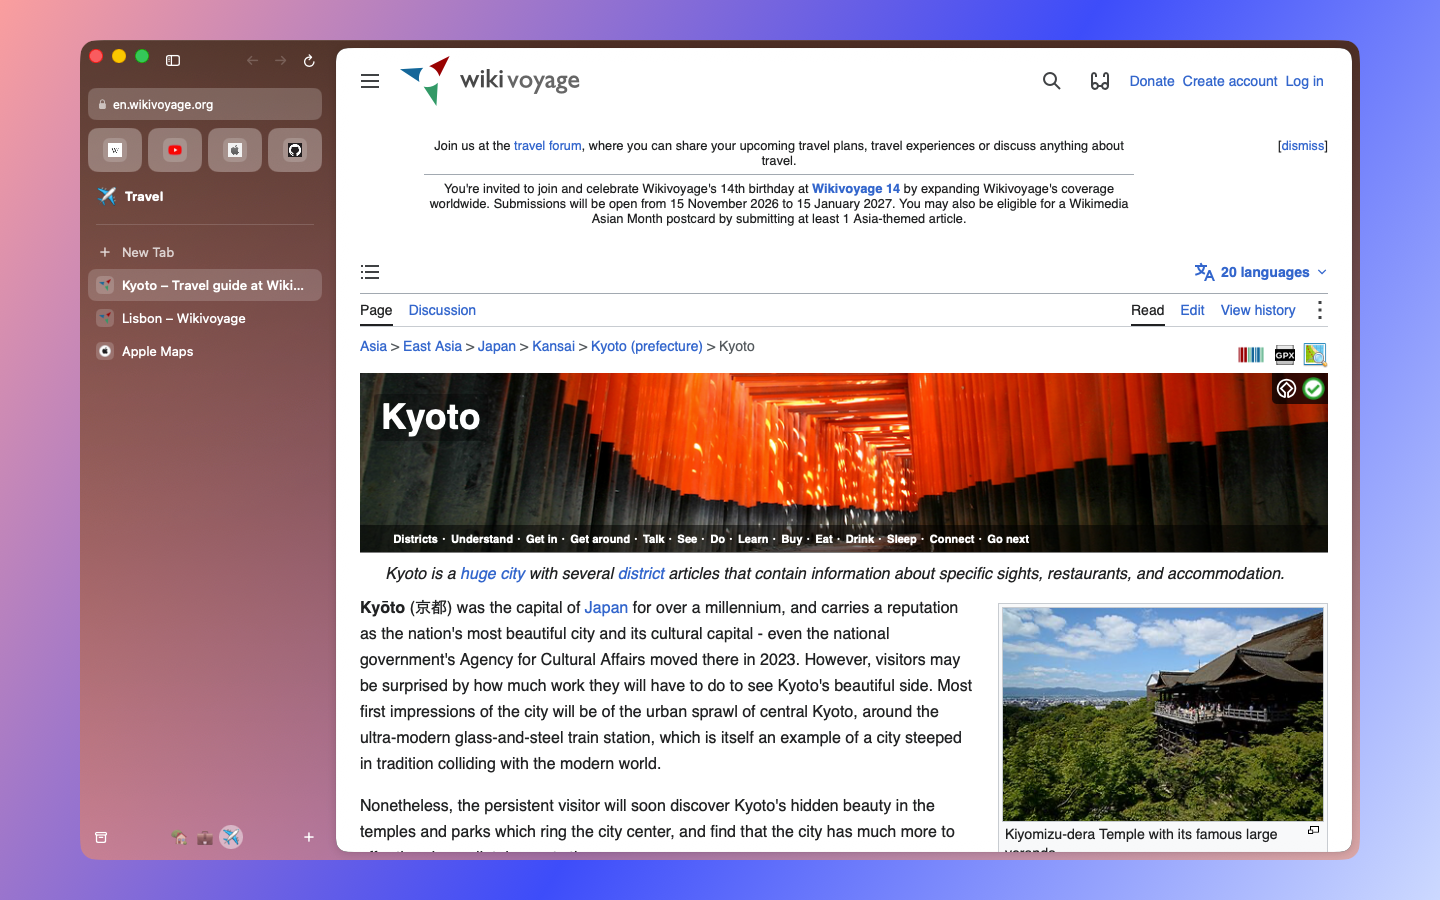
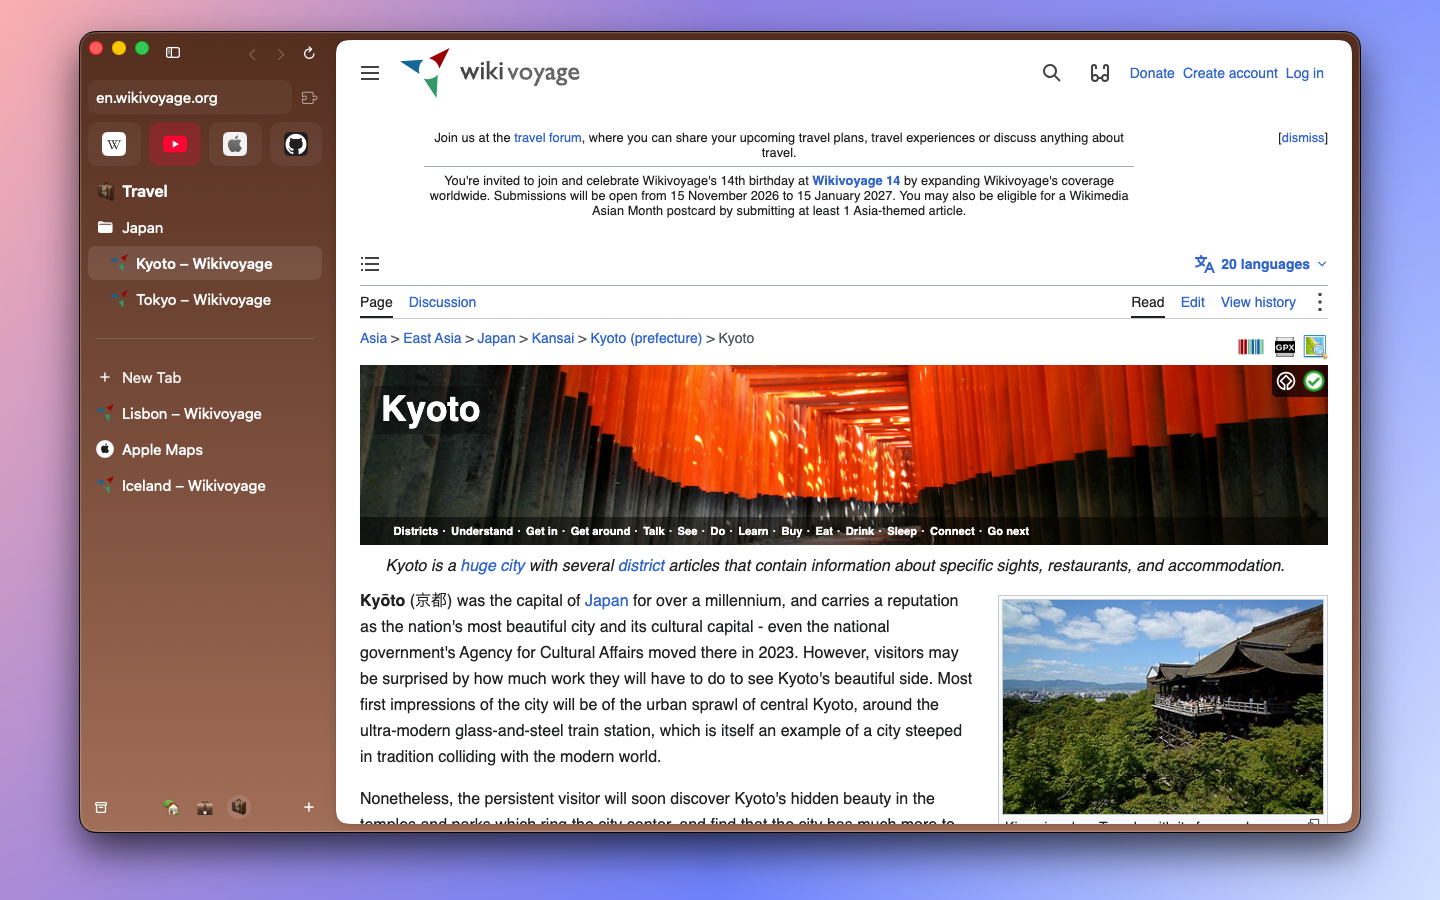
README: new Mac screenshots and hero from the Chromium DMG; extensions, right-click and Settings in the feature list

diff --git a/README.md b/README.md
@@ -38,8 +38,8 @@ within thumb reach and a layout that follows every posture of iPhone Duo. On the
 | **On-device AI** | Summarize Page, Ask This Page and Tidy Tabs, using only Apple's on-device model. Nothing goes to a server. |
 | **iCloud sync** | Spaces, pins, folders, favorites and Today sync between iPhone and Mac through your **private** CloudKit database (`CKSyncEngine`). When iCloud is unavailable, a folder you choose works as a fallback. History and Incognito tabs never leave the device. |
 | **Built for iPhone Duo** | Folded: the page with the rail beside it, its edges tinted to match the site. Open: a sidebar with search and Today next to the page. Book: sidebar on the left half, page on the right. Laptop: page on top, controls on the lower half. The page is never reloaded as the hinge moves. Standard iPhones get the page with the bar across the bottom. |
-| **Chromium on the Mac** | The DMG from GitHub is built on Chromium: Chrome Web Store extensions, and Chromium's DevTools docked beside the page. Upgrading from an earlier version keeps your library, settings, saved passwords and signed-in sites. The Mac App Store and iPhone apps use WebKit. |
-| **A full Mac browser** | Sidebar with spaces, command bar (⌘T / ⌘L), split view, rebindable shortcuts, downloads, and a small Quick Window for links opened from other apps. |
+| **Chromium on the Mac** | The DMG from GitHub is built on Chromium. Chrome Web Store extensions sit beside the address, as in Arc: pin the ones you use and open the rest from the puzzle button. Chromium's DevTools dock beside the page, and right-click gives a short native menu. Upgrading from an earlier version keeps your library, settings, saved passwords and signed-in sites. The Mac App Store and iPhone apps use WebKit. |
+| **A full Mac browser** | Sidebar with spaces, command bar (⌘T / ⌘L), split view, rebindable shortcuts, downloads, a native Settings window, and a small Quick Window for links opened from other apps. |
 | **Bring Arc with you** | On Mac, import Arc's spaces, pinned folders, favorites, themes, keyboard shortcuts and, if you opt in, cookies as they are. Chrome, Brave, Edge and Safari bookmarks import too. |
 | **Private by design** | Built-in ad and tracker blocking (EasyList), cookie-banner declining on iPhone, Incognito tabs and a reader view. No accounts, analytics or third-party SDKs. |
 | **System integration** | Share extension ("Add to Boaz"), a search widget, App Shortcuts ("Open in Boaz", "Search in Boaz"), the `boaz://` URL scheme, a default-browser handler on Mac, and alternate app icons. |
@@ -72,7 +72,7 @@ iPhone Duo, open:
 
 <img src="docs/screenshots/duo-5-open.png" alt="Unfolded: the sidebar with search and Today next to the page" width="640">
 
-Mac:
+Mac (the DMG, built on Chromium):
 
 <table>
   <tr>

diff --git a/CHANGELOG.md b/CHANGELOG.md
@@ -12,9 +12,12 @@ All notable changes to Boaz are recorded here. The format follows
   Store and iPhone apps stay on WebKit. Upgrading from an earlier version keeps your library, settings, saved passwords and signed-in sites.
 - iPhone: Boaz can be your default browser (Settings › Apps › Default Apps › Browser App), so links from other apps
   open in it. Settings › Default Browser shows whether it is and opens iOS Settings to choose it.
+- Mac (DMG): extensions sit beside the address, as in Arc. Pin the ones you use; the puzzle button lists them all,
+  opens their popups and manages them.
 
 ### Fixed
 
+- Mac (DMG): right-click shows a menu again: a short one with the link, image, text and Inspect items that apply.
 - Mac (DMG): websites can ask to use the camera, microphone and location. The Mac app didn't declare them before.
 - Mac (DMG): logging out or restarting the Mac quits Boaz instead of being held up.
 - iPhone: saving a photo from a website (Save to Photos, or Save Image from the share sheet) no longer closes
@@ -24,6 +27,9 @@ All notable changes to Boaz are recorded here. The format follows
 
 ### Changed
 
+- Mac (DMG): Boaz presents itself as Chromium. Engine menus, badges and prompts are gone; video Chromium can't play
+  still opens in WebKit, without asking.
+- Mac (DMG): Settings is a standard Mac settings window with a tab for each pane.
 - Mac: Boaz uses less energy. The shadow around a web page is no longer redrawn each time the page redraws, and in
   Low Power Mode Boaz checks iCloud for changes from your other devices every 10 minutes instead of every 2.
 
